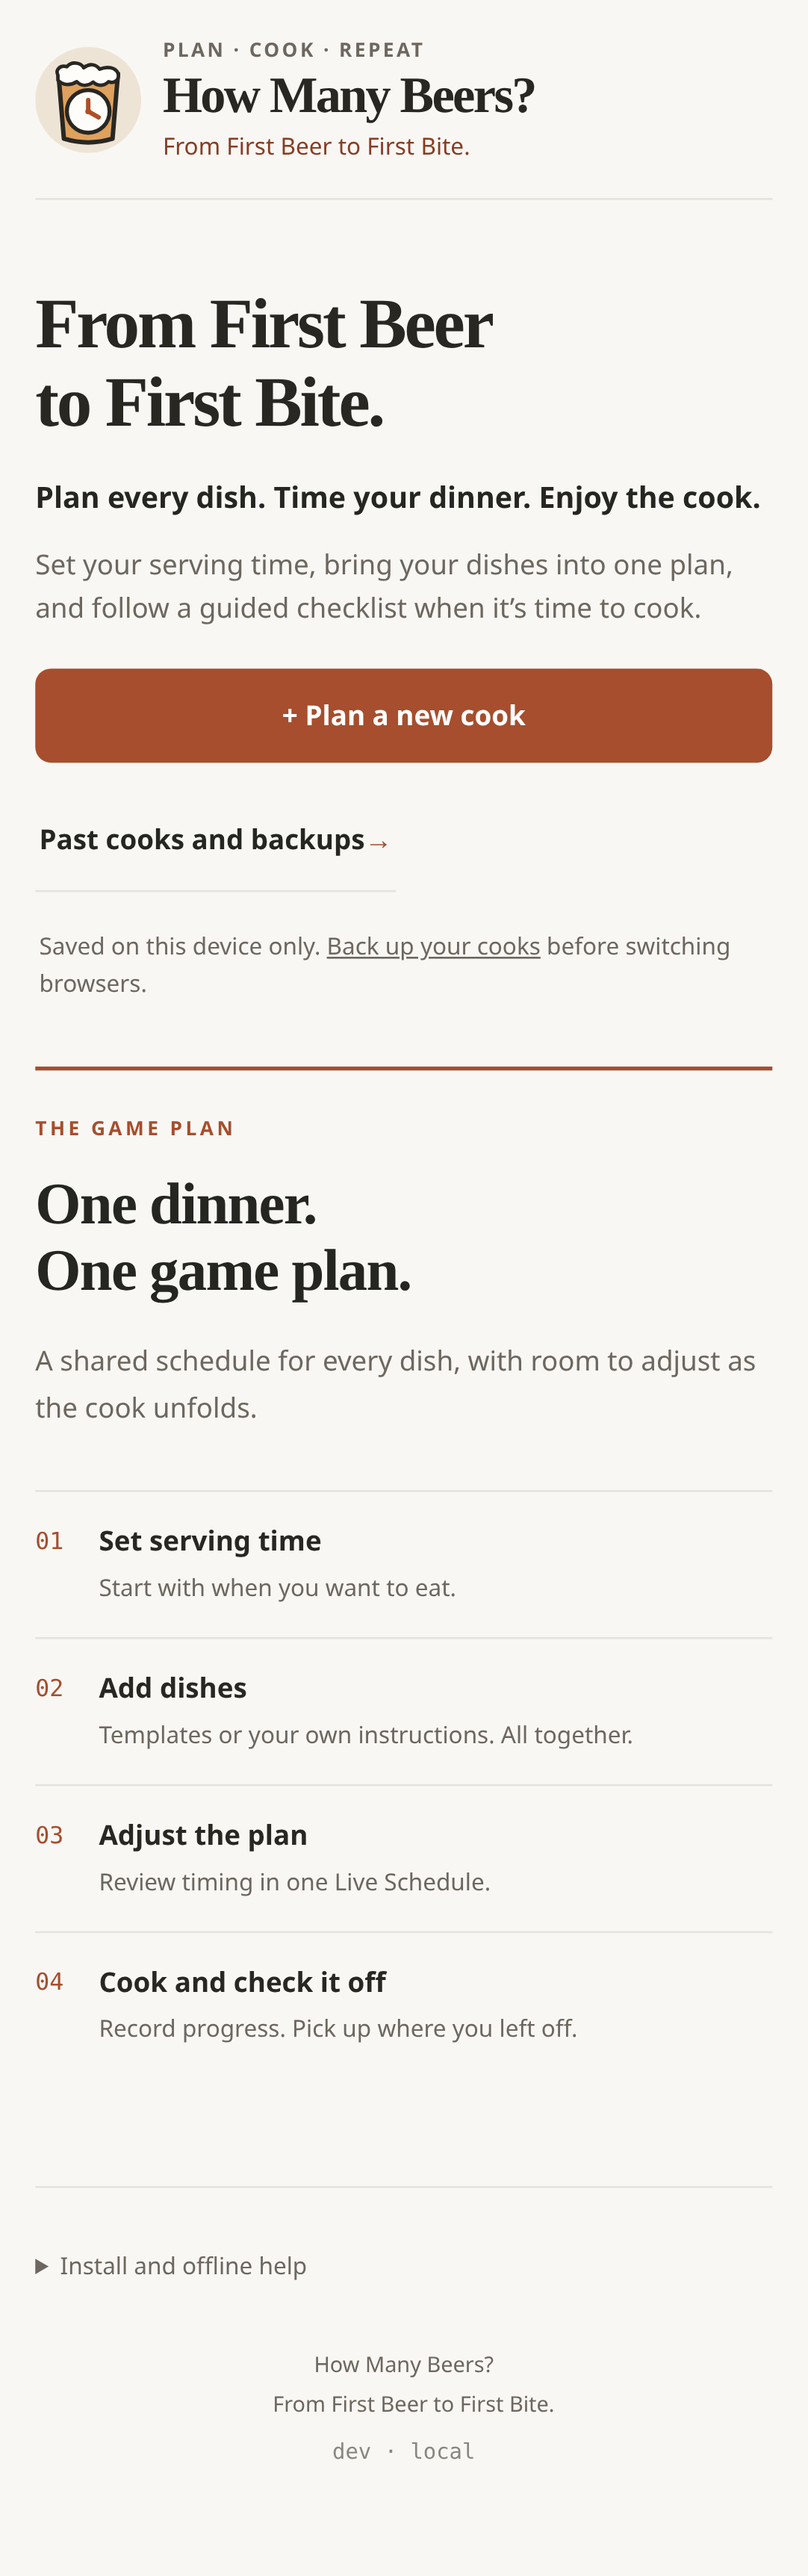
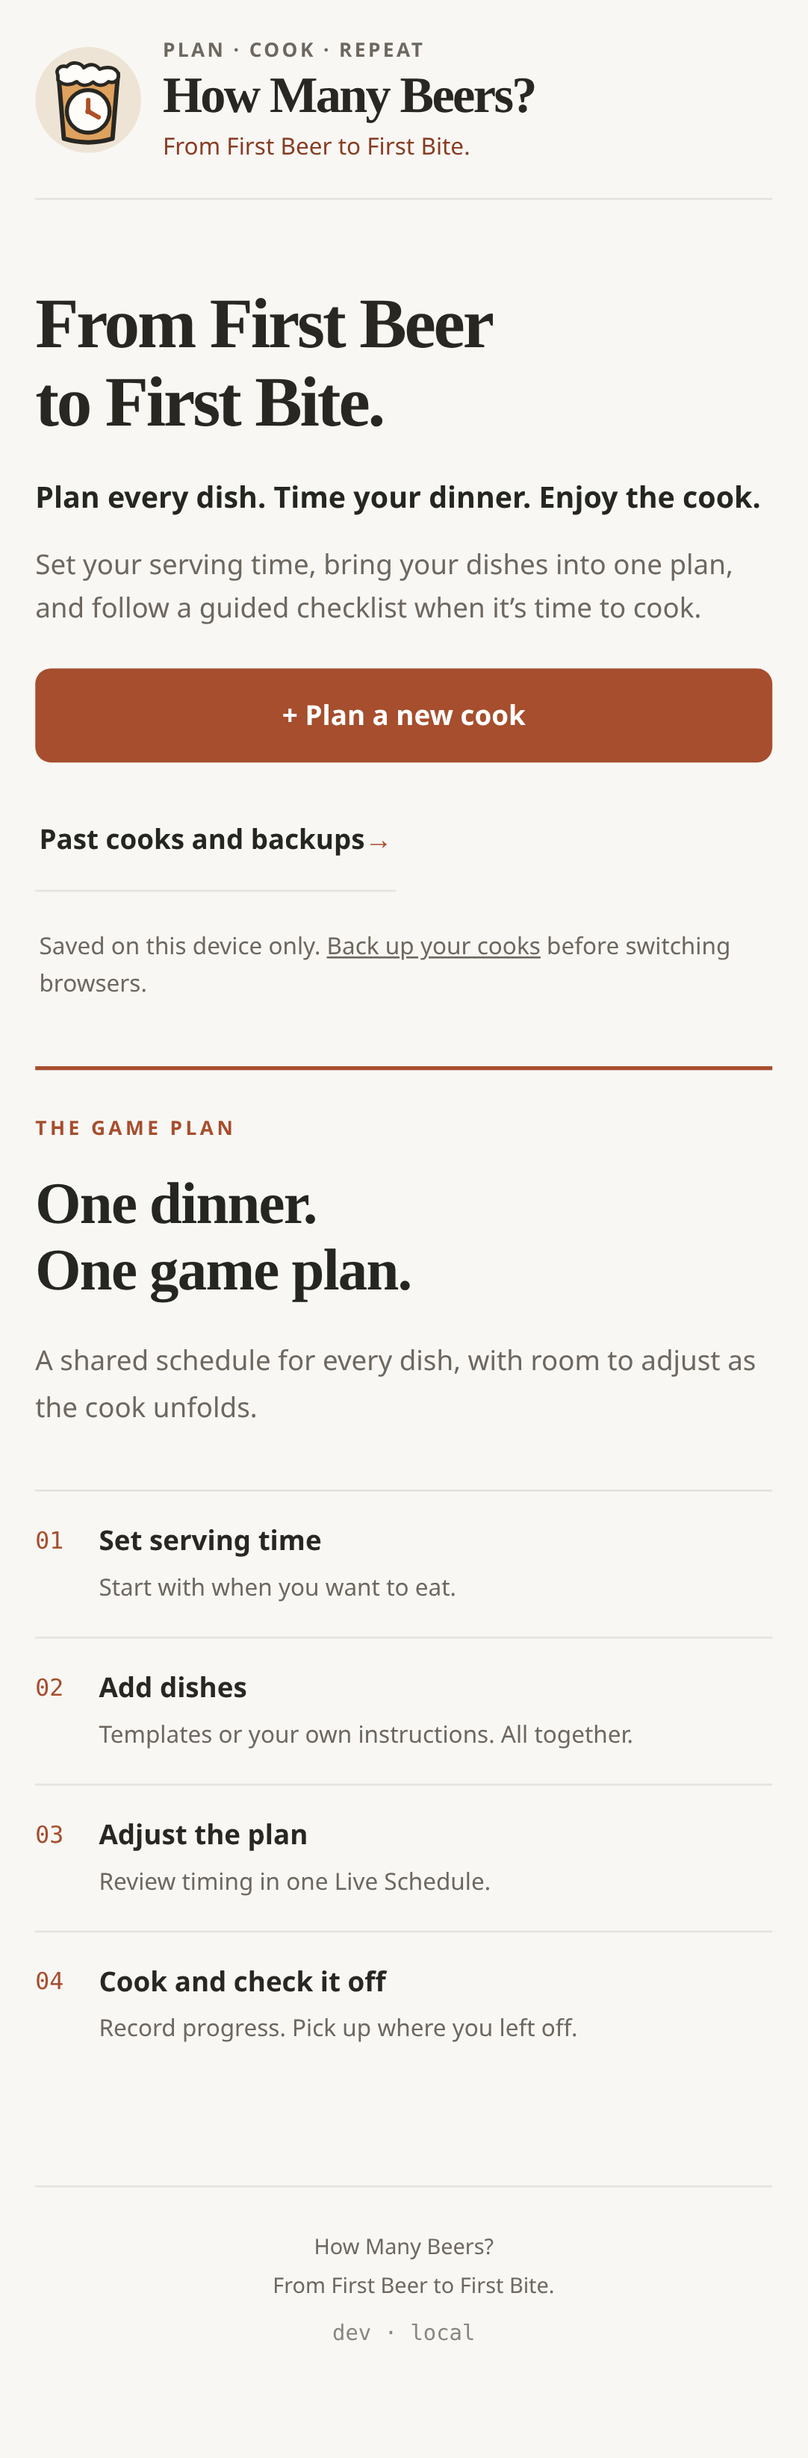
Remove install and offline help from every app screen

diff --git a/src/components/OfflineSupport.tsx b/src/components/OfflineSupport.tsx
@@ -1,30 +1,22 @@
 'use client';
 import {useEffect,useRef,useState} from 'react';
-type InstallEvent=Event&{prompt:()=>Promise<void>;userChoice:Promise<{outcome:string}>};
-export default function OfflineSupport({canReload,discreet=false}:{canReload:boolean;discreet?:boolean}){
-  const [online,setOnline]=useState(true),[ready,setReady]=useState(false),[failed,setFailed]=useState(false);
-  const [waiting,setWaiting]=useState<ServiceWorker|null>(null),[install,setInstall]=useState<InstallEvent|null>(null);
+export default function OfflineSupport({canReload}:{canReload:boolean}){
+  const [waiting,setWaiting]=useState<ServiceWorker|null>(null);
   const requested=useRef(false);
   useEffect(()=>{
     let alive=true;let registration:ServiceWorkerRegistration|undefined;
+    // Check/repair cached assets silently; no install or offline help UI.
     const check=()=>{
-      setOnline(navigator.onLine);
-      const worker=navigator.serviceWorker?.controller;
-      if(!worker){setReady(false);return;}
+      const worker=navigator.serviceWorker?.controller;if(!worker)return;
       const channel=new MessageChannel();
       channel.port1.onmessage=event=>{
-        channel.port1.close();if(!alive)return;
-        const available=event.data?.ready===true;setReady(available);
-        if(!available&&navigator.onLine){
-          const recovery=new MessageChannel();
-          recovery.port1.onmessage=result=>{recovery.port1.close();if(alive){setReady(result.data?.ready===true);setFailed(result.data?.ready!==true);}};
-          worker.postMessage({type:'PREPARE_OFFLINE'},[recovery.port2]);
-        }
+        channel.port1.close();if(!alive||event.data?.ready===true||!navigator.onLine)return;
+        const recovery=new MessageChannel();recovery.port1.onmessage=()=>recovery.port1.close();
+        worker.postMessage({type:'PREPARE_OFFLINE'},[recovery.port2]);
       };
       worker.postMessage({type:'CHECK_OFFLINE'},[channel.port2]);
     };
     const connection=()=>{check();if(navigator.onLine)void registration?.update().catch(()=>{});};
-    const installed=(event:Event)=>{event.preventDefault();setInstall(event as InstallEvent);};
     const controller=()=>{if(requested.current){window.location.reload();return;}check();};
     if(process.env.NODE_ENV==='production'&&'serviceWorker'in navigator){
       const base=process.env.NEXT_PUBLIC_BASE_PATH??'';
@@ -33,39 +25,22 @@ export default function OfflineSupport({canReload,discreet=false}:{canReload:boo
         if(reg.waiting)setWaiting(reg.waiting);
         const watch=(worker:ServiceWorker|null)=>{
           worker?.addEventListener('statechange',()=>{
-            if(!alive)return;
-            if(worker.state==='installed'&&navigator.serviceWorker.controller)setWaiting(reg.waiting??worker);
-            if(worker.state==='redundant')setFailed(true);
+            if(alive&&worker.state==='installed'&&navigator.serviceWorker.controller)setWaiting(reg.waiting??worker);
           });
         };
         watch(reg.installing);reg.addEventListener('updatefound',()=>watch(reg.installing));
-        void navigator.serviceWorker.ready.then(()=>{if(alive)check();});
-        check();
-      }).catch(()=>{if(alive)setFailed(true);});
+        void navigator.serviceWorker.ready.then(()=>{if(alive)check();});check();
+      }).catch(()=>{});
       navigator.serviceWorker.addEventListener('controllerchange',controller);
     }
-    setOnline(navigator.onLine);
-    window.addEventListener('online',connection);window.addEventListener('offline',check);
-    window.addEventListener('beforeinstallprompt',installed);
-    window.addEventListener('focus',connection);
-    return ()=>{alive=false;window.removeEventListener('online',connection);window.removeEventListener('offline',check);window.removeEventListener('beforeinstallprompt',installed);window.removeEventListener('focus',connection);navigator.serviceWorker?.removeEventListener('controllerchange',controller);};
+    window.addEventListener('online',connection);window.addEventListener('offline',check);window.addEventListener('focus',connection);
+    return ()=>{alive=false;window.removeEventListener('online',connection);window.removeEventListener('offline',check);window.removeEventListener('focus',connection);navigator.serviceWorker?.removeEventListener('controllerchange',controller);};
   },[]);
-  if(process.env.NODE_ENV!=='production')return null;
-  const feedback=<>
-    <p aria-live="polite">{!online?(ready?'Offline. Your cook can still save on this device.':'Offline access is not ready. Keep this tab open and back up your cook.'):
-      ready?'Offline ready on this device':failed?'Offline access could not be prepared. Keep a backup of your cook.':'Preparing offline access…'}</p>
-    {waiting&&<div className="notice"><p>An app update is ready. Your cook will resume after reloading.</p>
+  if(process.env.NODE_ENV!=='production'||!waiting)return null;
+  return <section className="offline-access" aria-label="App update">
+    <div className="notice"><p>An app update is ready. Your cook will resume after reloading.</p>
       <button type="button" disabled={!canReload} onClick={()=>{requested.current=true;waiting.postMessage({type:'SKIP_WAITING'});}}>Update app</button>
       {!canReload&&<p>Save or cancel open forms and save your changes before updating.</p>}
-    </div>}
-  </>;
-  return <section className="offline-access" aria-label="Offline access">
-    {!discreet&&feedback}
-    <details><summary>Install and offline help</summary>
-      {discreet&&feedback}
-      <p>Visit once online and wait for “Offline ready” before relying on offline access. Saved cooks belong to this browser and site; export a backup before switching devices or clearing site data.</p>
-      {install?<button type="button" onClick={()=>{void install.prompt().then(()=>install.userChoice).then(()=>setInstall(null));}}>Install app</button>:<p>On iPhone, use Safari’s Share menu → Add to Home Screen. On Android, use the browser menu → Install app or Add to Home screen when available.</p>}
-      <p>Browser storage and offline files can be cleared or evicted by the device. Background timers and notifications are not provided.</p>
-    </details>
+    </div>
   </section>;
 }

diff --git a/e2e/offline/cook-offline.spec.ts b/e2e/offline/cook-offline.spec.ts
@@ -5,9 +5,12 @@ import {ACTIVE_KEY,HISTORY_KEY} from '../../src/domain/cookHistory';
 
 test.use({timezoneId:'America/New_York'});
 async function ready(page:Page){
- await expect(page.getByRole('region',{name:'Offline access'})).toContainText('Offline ready on this device');
- await expect.poll(()=>page.evaluate(()=>!!navigator.serviceWorker.controller)).toBe(true);
+ await expect.poll(()=>page.evaluate(async()=>{
+  const worker=navigator.serviceWorker.controller;if(!worker)return false;
+  return new Promise<boolean>(resolve=>{const channel=new MessageChannel();channel.port1.onmessage=e=>{channel.port1.close();resolve(e.data?.ready===true);};worker.postMessage({type:'CHECK_OFFLINE'},[channel.port2]);});
+ })).toBe(true);
 }
+
 test.beforeEach(async({request})=>{await request.post('/__test__/worker-mode?mode=original');});
 
 test('installed shell resumes an overnight cook offline, including notes, readings and archive',async({page,context},info)=>{
@@ -18,7 +21,6 @@ test('installed shell resumes an overnight cook offline, including notes, readin
  const active=recordEvent(original,id,'temperature','2026-10-31T23:00:00Z',165,'°F');active.notes[id]='Bark set';
  await page.evaluate(({active,key})=>localStorage.setItem(key,JSON.stringify(active)),{active,key:ACTIVE_KEY});await page.reload();await ready(page);
  await context.setOffline(true);await page.clock.fastForward(8*60*60*1000);await page.reload();
- await expect(page.getByRole('region',{name:'Offline access'})).toContainText('Offline.');
  await page.getByRole('button',{name:/Continue cooking/}).click();
  await page.getByRole('region',{name:'Current step',exact:true}).getByRole('checkbox').click();
  const current=page.getByRole('region',{name:'Current step',exact:true});
@@ -44,8 +46,8 @@ test('manifest and icons describe a standalone app with the correct scope',async
  for(const icon of manifest.icons){expect((await request.get(icon.src)).ok()).toBe(true);}
  await expect(page.getByRole('button',{name:/Plan a new cook/})).toBeInViewport();
  await page.screenshot({path:info.outputPath('offline-home.png'),fullPage:true});
- await page.getByText('Install and offline help',{exact:true}).click();
- await expect(page.getByText(/Safari’s Share menu/)).toBeVisible();
+ await expect(page.getByText('Install and offline help',{exact:true})).toHaveCount(0);
+ await expect(page.getByRole('button',{name:'Install app',exact:true})).toHaveCount(0);
 });
 
 test('failed worker update leaves the saved cook and previous offline shell usable',async({page,request,context})=>{
@@ -87,14 +89,25 @@ test('an unsaved custom-step draft also blocks app updates until cancelled',asyn
 });
 
 
-test('Home keeps offline details in a collapsed footer while preparation stays functional',async({page},info)=>{
+test('Home has no install or offline help while preparation stays functional',async({page},info)=>{
  await page.goto('/');await ready(page);
  expect(await page.locator('.site-header').evaluate(e=>e.nextElementSibling?.getAttribute('aria-label'))).toBe('Home');
  await expect(page.getByText('Saved on this device',{exact:true})).toHaveCount(0);
  await expect(page.getByText('A LITTLE LESS JUGGLING. A BETTER COOK.',{exact:true})).toHaveCount(0);
- const footer=page.locator('footer'),help=footer.getByText('Install and offline help',{exact:true});await expect(help).toBeVisible();
- await expect(footer.getByText('Offline ready on this device',{exact:true})).not.toBeVisible();await expect(page.getByRole('button',{name:/Plan a new cook/})).toBeInViewport();
+ await expect(page.getByText('Install and offline help',{exact:true})).toHaveCount(0);
+ await expect(page.getByRole('button',{name:'Install app',exact:true})).toHaveCount(0);
+ await expect(page.getByText(/Safari’s Share menu/)).toHaveCount(0);
+ await expect(page.getByText('Offline ready on this device',{exact:true})).toHaveCount(0);
+ await expect(page.getByRole('button',{name:/Plan a new cook/})).toBeInViewport();
  await page.screenshot({path:info.outputPath('clean-home-production.png'),fullPage:true});
- await help.click();await expect(footer.getByText('Offline ready on this device',{exact:true})).toBeVisible();await expect(footer.getByText(/Safari’s Share menu/)).toBeVisible();
  await page.getByRole('button',{name:/Plan a new cook/}).click();await ready(page);await expect(page.getByText('Saved on this device',{exact:true})).toBeVisible();
+ await expect(page.getByText('Install and offline help',{exact:true})).toHaveCount(0);
+ await expect(page.getByRole('button',{name:'Install app',exact:true})).toHaveCount(0);
+ await page.getByRole('button',{name:'Add smoked brisket',exact:true}).click();await page.getByRole('button',{name:'Start cooking',exact:true}).click();
+ await expect(page.getByText('Install and offline help',{exact:true})).toHaveCount(0);
+ await expect(page.getByRole('button',{name:'Install app',exact:true})).toHaveCount(0);
+ await expect(page.getByText('Offline ready on this device',{exact:true})).toHaveCount(0);
+ await page.getByRole('button',{name:'← Home',exact:true}).click();await page.getByRole('button',{name:/Past cooks and backups/}).click();
+ await expect(page.getByText('Install and offline help',{exact:true})).toHaveCount(0);
+ await expect(page.getByRole('button',{name:'Install app',exact:true})).toHaveCount(0);
 });

diff --git a/src/app/page.tsx b/src/app/page.tsx
@@ -386,7 +386,7 @@ export default function Home() {
     }
   };
 
-  const offlineSupport=<OfflineSupport discreet={view==="home"} canReload={storageStatus==='saved'&&!editingStep&&!newStepDishId&&!cookReadingOpen&&!addStepDraftOpen&&!showFinish&&!(showDishSetup&&(view==='planning'||(addMethod==='recipe'&&(!!recipeText||!!recipeName||!!draft))))}/>;
+  const offlineSupport=<OfflineSupport canReload={storageStatus==='saved'&&!editingStep&&!newStepDishId&&!cookReadingOpen&&!addStepDraftOpen&&!showFinish&&!(showDishSetup&&(view==='planning'||(addMethod==='recipe'&&(!!recipeText||!!recipeName||!!draft))))}/>;
 
   return (
     <main className={"shell " + (cooking ? "cooking-screen" : "planning-screen")}>
@@ -717,7 +717,7 @@ export default function Home() {
           </div>
         </>
       )}
-      <footer>{view==="home"&&<div className="home-footer-help">{offlineSupport}</div>}How Many Beers? <span>From First Beer to First Bite.</span><span className="build-version" title="Deployment branch and Git commit">{process.env.NEXT_PUBLIC_BUILD_BRANCH ?? "local"} · {(process.env.NEXT_PUBLIC_BUILD_SHA ?? "local").slice(0, 7)}</span></footer>
+      <footer>{view==="home"&&offlineSupport}How Many Beers? <span>From First Beer to First Bite.</span><span className="build-version" title="Deployment branch and Git commit">{process.env.NEXT_PUBLIC_BUILD_BRANCH ?? "local"} · {(process.env.NEXT_PUBLIC_BUILD_SHA ?? "local").slice(0, 7)}</span></footer>
     </main>
   );
 }

diff --git a/src/app/globals.css b/src/app/globals.css
@@ -232,8 +232,6 @@ body{min-width:320px}
 .home-storage-note{font-size:12px;color:var(--muted);margin:18px 2px 0;line-height:1.6}
 .home-storage-note button{border:0;background:transparent;padding:0;text-decoration:underline;color:inherit;cursor:pointer;font-size:inherit}
 .home-layout .button{border-radius:8px;padding:12px 17px;font-size:14px;font-weight:650}
-/* Home keeps device/install details in a quiet footer disclosure (#50). */
-.home-footer-help{max-width:650px;margin:0 0 16px;text-align:left}.home-footer-help .offline-access{margin:0}.home-footer-help .offline-access summary{color:var(--muted);font-size:12px;font-weight:400}.home-footer-help .offline-access details[open]{padding-bottom:10px}
 footer{text-align:left;border-top:1px solid var(--line);padding:23px 0;color:var(--muted)}
 @media(min-width:1100px){
  .home-layout{padding-left:clamp(0px,4vw,58px)}

diff --git a/docs/offline-reliability.md b/docs/offline-reliability.md
@@ -31,13 +31,13 @@ Where Web Locks is available, one tab holds the origin's cooking write lock. Oth
 
 `npm run build` generates a scoped, content-versioned `sw.js` after Next.js static export. Installation caches the complete HTML/JavaScript/CSS/manifest/brand asset set; an incomplete install never replaces the last working worker. No private cook data is put into CacheStorage or sent to a server.
 
-After an online visit, wait for **Offline ready on this device**. An existing cook can then reopen, log actions, finish/archive and export backups offline in the same browser/site. A cold first visit while offline cannot install the app. Cleared/evicted browser data or caches can still remove local availability; the status check detects missing cache entries and attempts preparation again when connected.
+Offline shell preparation runs in the background after an online visit. Install/offline help and routine readiness messages are intentionally absent from the app. An existing cook can then reopen, log actions, finish/archive and export backups offline in the same browser/site. A cold first visit while offline cannot install the app. Cleared/evicted browser data or caches can still remove local availability; the status check detects missing cache entries and attempts preparation again when connected.
 
 Navigation tries the network, then uses the cached app after an error, unavailable response or four-second connection stall. Immutable assets are cached; other origins, API routes and non-GET requests are not intercepted. Root and supported GitHub Pages subpath builds each use their own scope and cache prefix.
 
 An installed update waits. **Update app** is an explicit reload action and is disabled for unsaved edits/readings, pending custom steps, unfinished recipe entry or an open finish form. No other open tab is automatically reloaded. Old static assets are retained while old tabs might still need them; old caches are reclaimed on activation when no old tab remains. The service worker never clears cook storage. Cloudflare cache headers and `updateViaCache: none` keep the worker script updateable.
 
-Use the browser install action when offered. Safari users can choose **Share → Add to Home Screen**. The manifest uses the approved circle-highlighted 192/512 icons; Apple retains its touch icon. Browser installation prompts and storage durability vary by platform, and installation is not a cloud backup.
+Installation uses the browser’s own controls; the app provides no install prompt or help section. The manifest uses the approved circle-highlighted 192/512 icons; Apple retains its touch icon. Browser installation prompts and storage durability vary by platform, and installation is not a cloud backup.
 
 ## Regression checks
 

diff --git a/docs/core-cook-experience.md b/docs/core-cook-experience.md
@@ -79,7 +79,7 @@ Allow one active/planning cook per user or device, with many completed archived 
 
 ## Home cleanup (#50)
 
-Home flows directly from the brand header into its first-visit/returning content. The redundant hero eyebrow and routine local/offline status block are removed from that prime space. Install/offline help and readiness are available in a collapsed footer disclosure. Planning/cooking retain functional save/offline feedback, and critical storage/recovery warnings stay visible on Home and throughout the cook. This is a presentation change; persistence, backup and worker policies are unchanged.
+Home flows directly from the brand header into its first-visit/returning content. The redundant hero eyebrow and routine local/offline status block are removed from that prime space. Install/offline help, install prompts and routine offline-readiness text are removed from all screens. Offline preparation and cache repair run in the background. Planning/cooking retain functional save feedback and safe app-update controls, and critical storage/recovery warnings stay visible on Home and throughout the cook. This is a presentation change; persistence, backup and worker policies are unchanged.
 
 ## First UX change: Home and session entry (P0)
 **Objective:** Replace the current immediate planner/form landing with a distinct Home state that routes into the existing workspace or cooking view.

diff --git a/README.md b/README.md
@@ -45,7 +45,7 @@ There is **no automatic account sync or transfer between devices or browsers**. 
 
 ### Offline cooking and recovery
 
-After visiting online, wait for **Offline ready on this device** before relying on an offline reopen. You can keep using an existing cook, record progress and finish/save it without a connection. Install through the browser when offered, or use Safari's **Share → Add to Home Screen**. Installation does not create a cloud backup, and browser storage/cached files can still be cleared or evicted.
+Offline files prepare in the background after an online visit. You can keep using an existing cook, record progress and finish/save it without a connection once the shell is cached. The app has no install/offline help panel or routine readiness messages. Browser storage and cached files can still be cleared or evicted.
 
 The app shows whether edits saved. If a write fails, keep the tab open, download a backup and retry. Unreadable saved data opens a protected recovery screen instead of being replaced. App updates wait for an explicit reload, with open drafts protected. Keep one cooking tab open; another tab's newer data must be reloaded before saving. See [offline reliability and recovery](docs/offline-reliability.md) for behavior and test coverage.
 

diff --git a/docs/work-queue.md b/docs/work-queue.md
@@ -4,7 +4,7 @@ Owner priority: **#50 first tonight, then #19 and the initial #20 slice**. This 
 
 ## Tonight
 
-1. **#50: Home cleanup.** Remove the redundant hero eyebrow and top-of-Home local/offline status block. Keep install/offline help in a quiet footer disclosure, preserve active-cook feedback, errors, storage and PWA behavior. Verify first-visit/returning Home, responsive screenshots, resume, failed saves and built-app offline/update behavior.
+1. **#50: Home cleanup.** Remove the redundant hero eyebrow and top-of-Home local/offline status block. Remove install/offline help and routine offline-readiness text everywhere; preserve active-cook save feedback, errors, storage, background PWA behavior and safe app updates. Verify first-visit/returning Home, responsive screenshots, resume, failed saves and built-app offline/update behavior.
 2. Review the independently prepared Home change, **PR #49** (personal templates + prominent Beerometer), and **PR #51** (durable execution priorities). Integrate approved PRs into dev before branching the next work. Production promotion remains separate.
 
 ## Overnight implementation order
